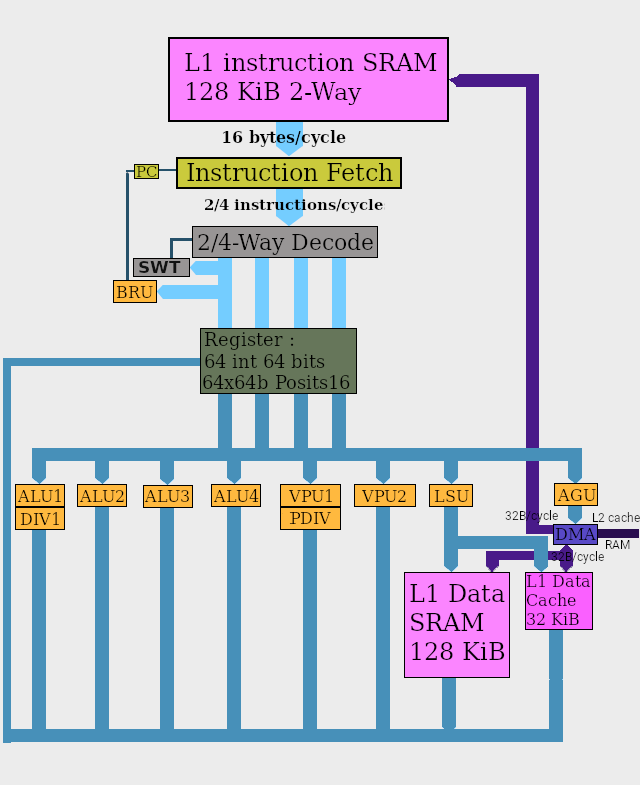
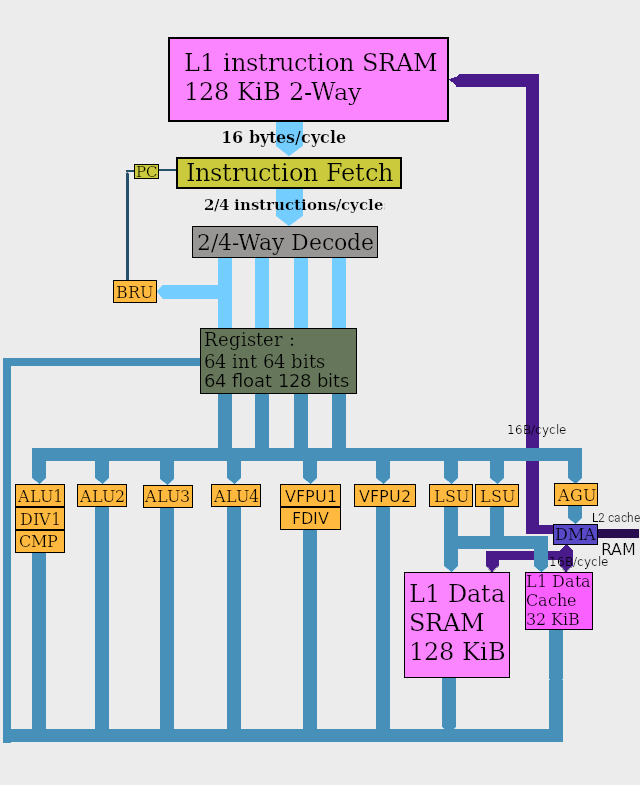
CPU

diff --git a/README.md b/README.md
@@ -2,11 +2,13 @@
 New computer and new CPU PoC
 
 The main processor of the Altair K1 is a VLIW In Order CPU.  
-It has 4 internal memory:  
-A SRAM memory (Scratchpad) for 128 KiB instructions.  
-Another SRAM memory (Scratchpad) for 128 KiB data.  
-A 32 KiB cache memory. (Direct mapped)  
-256B SRAM memory for I / O.  
+It has 3 internal memory:  
+128 KiB L1 data Scratchpad memory.  
+128 KiB L1 instruction Scratchpad memory.  
+32 KiB  L1 data cache (Direct mapped or Set-associative 2/4 ways).  
+  
+1/4 MIB L2 cache (Set-associative 2/4 ways).  
+1/4 MIB L2 cache Scratchpad memory.  
 
 The processor has no branch prediction, it will be based on the delay slot (1 cycle for Fetch) and 1 decode cycle + Jump (Delay)
 
@@ -22,14 +24,14 @@ For this, the compiler will have to do two things:
 This is a technique used on consoles like the Playstation 2 and 3, we have to make a double buffer, and therefore execute and read our data in buffer 1, while we preload our data in buffer 2.  
 Then we execute the buffer 2 and we preload the buffer 1 and so on.
 
-The L1 I/O SRAM, is not made to read / write hardware, but to control another CPU or core.  
-The configuration thought is that the main processor can indicate I/O for the other cores, while keeping a security (for the OS).  
-The main core also has an I/O SRAM, if you want, for example, to have 2 processors on a machine. 
-
 For floating point numbers Altair , it will not be 100% compatible with the standard  with IEEE 754
 
 For the calculation unit it has:  
-2ALU+2ALU(move/logical operation only) 2VFPU 2LSU FDIV DIV BRU AGU CMP
+2ALU+2ALU(32 bits) 2VFPU 2LSU FDIV DIV BRU AGU CMP  
+
+Altair will have as main kernel (for the OS), a 64 bits RISC-V, scalar in order with an ALU/FPU/BRU/LSU,there will be no double float.  
+32 KiB L1 data cache (Direct mapped or Set-associative 2/4 ways).  
+32 KiB L1 instruction cache (Direct mapped or Set-associative 2/4 ways).  
 
 The advantage of this processor is that it has a simple design, and requires little transistor for "high performance" and therefore consume / cost less than RISC Out Of Order processors.
 
@@ -39,10 +41,11 @@ The advantage of this processor is that it has a simple design, and requires lit
 - Translate the IR code (Clang) for Altair
 - Make the virtual machine
 
-## Target configuration  
-Altair K1 2.5 GHz ,8-10 cores  
-LPDDR4 3200 MHz , 8GB in a unified memory  
-GPU Aldebaran G1 1 GHz , 8 CU , 2 TFlops  
+## Target configuration
+RISC-V 2.5 GHz 1 core  
+Altair K1 2.5 GHz ,6 cores  
+LPDDR4 2666/3200 MHz , 8GB in a unified memory  
+GPU Aldebaran G1 1 GHz , 4/8 CU , 1-2 TFlops  
 
 ## Link
 Altair K1 ISA : https://docs.google.com/spreadsheets/d/1QSawEbuZwvMbYRcha7aj3VXp76EGc-zYoRJHNPjmhB8/edit?usp=sharing  
